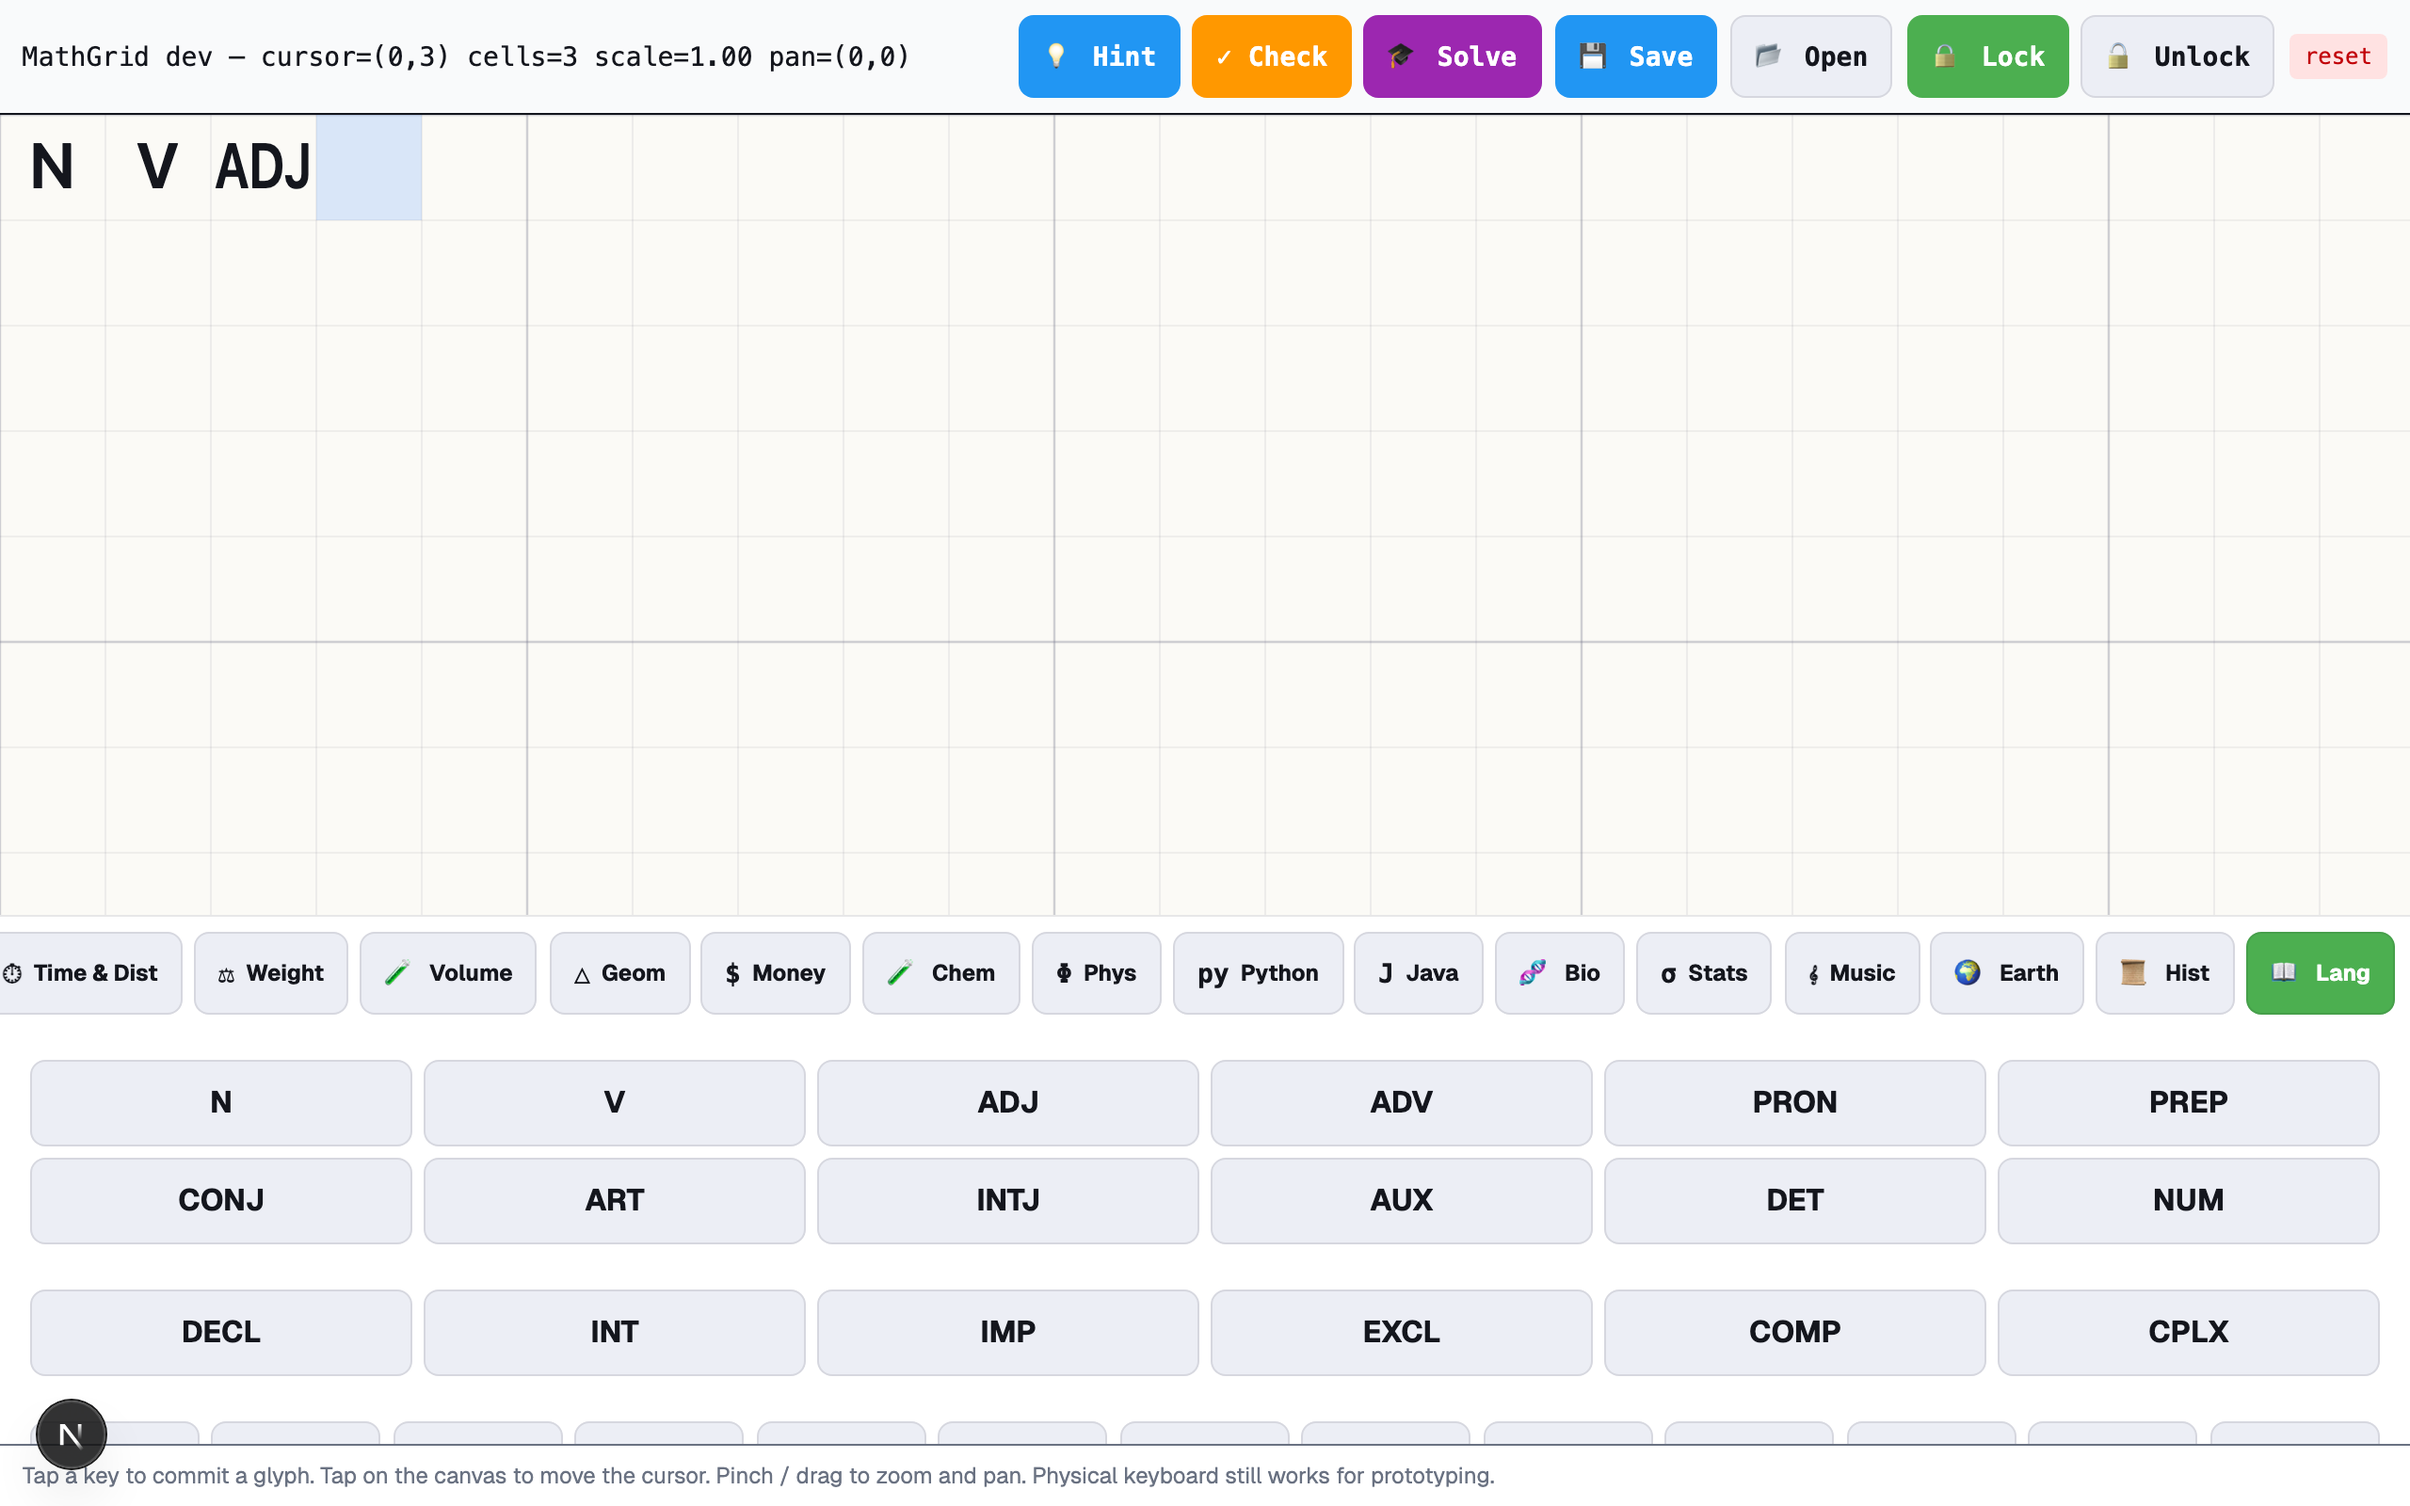
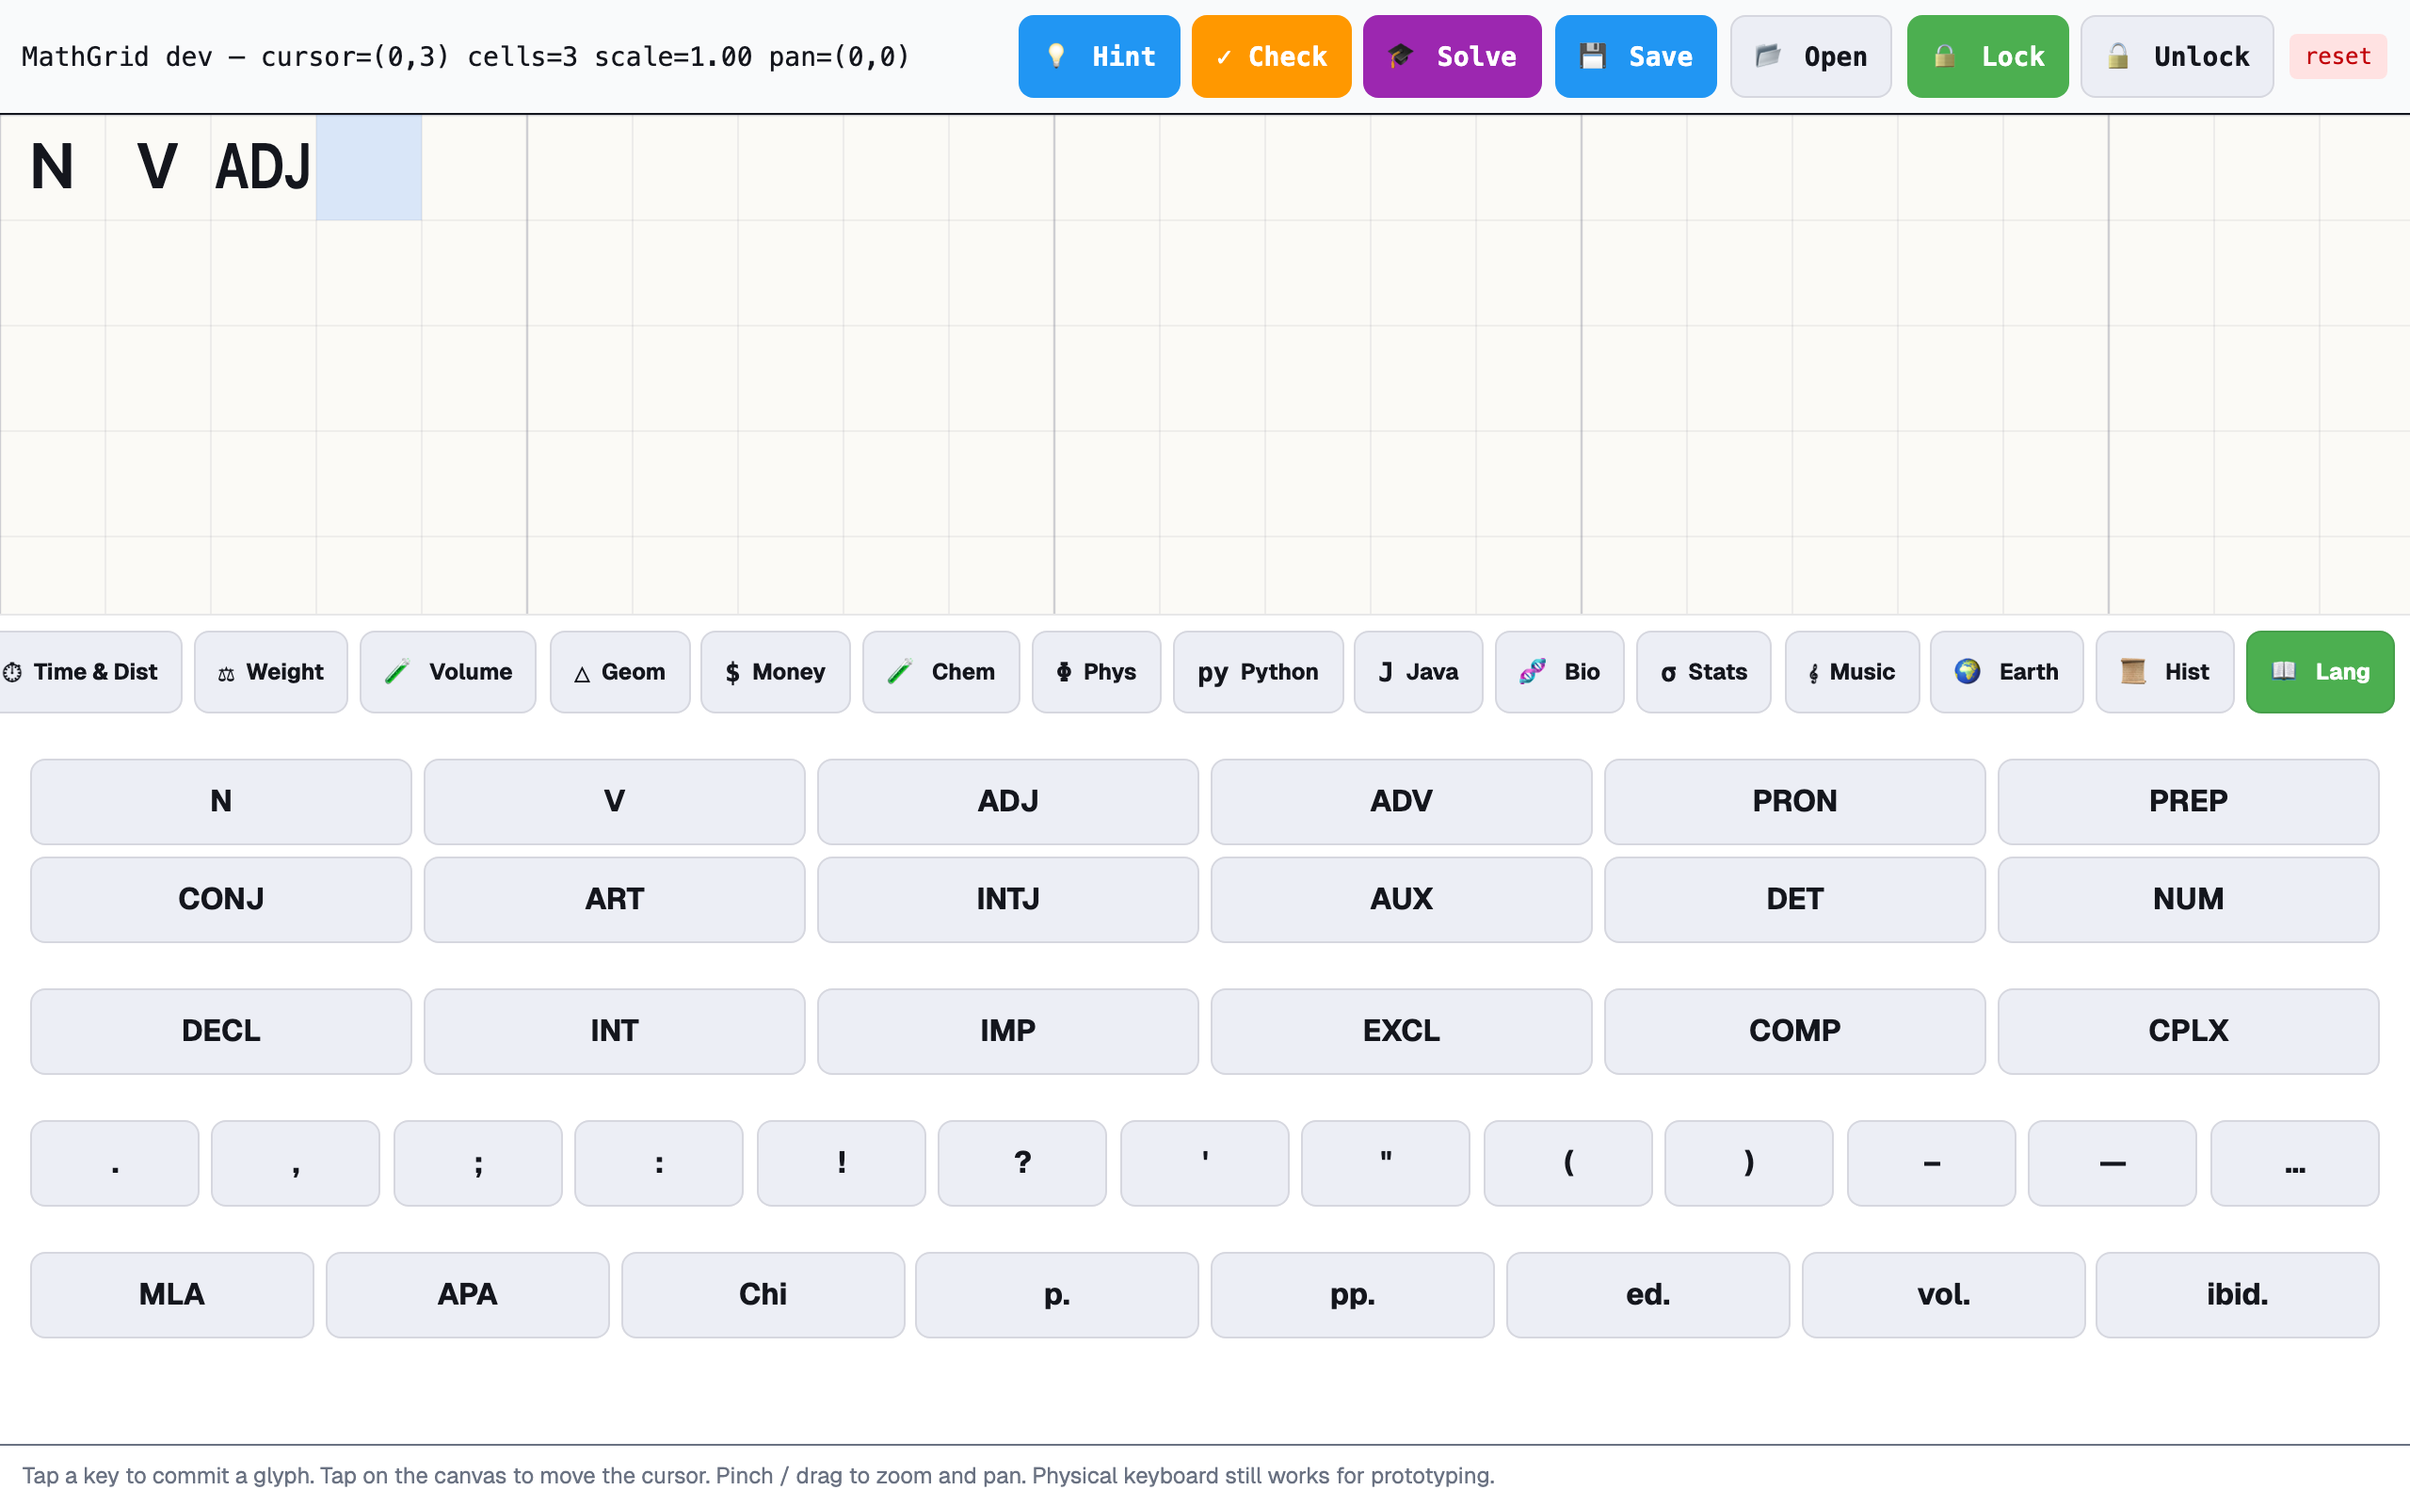
release(0.10.0): reliability sprint — TTS / translation / PDF / math / scripts
13 reported bugs fixed across TTS, translation, PDF reader, math
keyboard, build pipeline, and tutor language routing. 26/26 live-deploy
claims verified by scripts/claims-verify.mjs. 28 new test cases.

CHANGELOG.md captures the full set; key user-visible wins:

- TTS: ctx.state guard before BufferSource.start (ends the silent
  "succeeded" lie when ctx is suspended); rate clamp 0.5-2.0; Romanian
  routes to Azure ro-RO-AlinaNeural.
- Math tutor: outputLanguage drives reply lang, not the UI lang —
  asymmetric pairs (input=en, output=ro) get the localized hint.
- Translation: no English-fallback leak into non-English target
  dicts (was producing "Want più свободы" on RU→IT). LANG_NAMES
  extended for 17 more locales.
- PDF Reader: clinical-PDF support (disableNormalization +
  includeMarkedContent: false) — fixes Vineland-3 / Connors / BASC
  reads that crashed Safari with "undefined is not a function" in
  pdfjs 5.x marked-content walk. Per-phase error reporting added.
- PdfReaderPanel: runInlineOcr now returns the OCR text so callers
  (speakAll) can chain into TTS without waiting for setState flush.
- Build: switched `next build` to --webpack (Turbopack was silently
  skipping Serwist's webpack plugin — public/sw.js never regenerated).
- Service Worker auto-eviction killswitch in app/layout.tsx self-heals
  on next visit when SW version mismatches.

Math keyboard screenshots regenerated to reflect Phase 1 sizing
[…]

diff --git a/CHANGELOG.md b/CHANGELOG.md
@@ -1,5 +1,152 @@
 # PrismAAC Changelog
 
+## [0.10.0] - 2026-05-08 — Reliability sprint: TTS / translation / PDF / marketplace / tutor language
+
+Single-day reliability run resolving **13 reported bugs** (full audit at
+[`docs/BUGS-2026-05-08.md`](docs/BUGS-2026-05-08.md)). 26/26 live-deploy
+claims verified by `scripts/claims-verify.mjs`. **28 new test cases.**
+
+### Build pipeline
+
+- **Webpack production build.** `next build` defaulted to Turbopack on
+  Next 16; Turbopack silently skips Serwist's webpack plugin so
+  `public/sw.js` was never regenerated. Switched `build` script to
+  `next build --webpack`. Added `node:*` scheme handling for Pyodide,
+  `pyodide` to `serverExternalPackages`, home page `force-dynamic`,
+  dynamic-import wrapping of MathTutorTool.
+- **Service Worker auto-eviction killswitch.** Inline `<script>` in
+  `app/layout.tsx` runs FIRST on every page load. Versioned
+  localStorage marker; on mismatch unregisters every SW, deletes
+  every Cache Storage entry, reloads. End-user self-heals on next
+  visit — no Develop-menu intervention.
+
+### TTS
+
+- **`ctx.state === 'running'` guard** before `BufferSource.start()`.
+  Web Audio queues silently into a suspended ctx — `[TTS] Portal TTS
+  succeeded` was lying. Falls through to Web Speech tier when ctx
+  isn't ready.
+- **Rate clamp `[0.5, 2.0]` pass-through** (no SSML scale conversion).
+  Inworld TTS-2 ignores `rate=` so earlier conversion experiments
+  were chasing a non-bug. Romanian routes to Azure
+  `ro-RO-AlinaNeural`.
+- Verified end-to-end via `scripts/tts-live-diag-webkit.mjs` and
+  `tts-live-diag-multilang.mjs`: state=running, gain=1, source.start
+  fires, fallback to Web Speech when portal aborts. Rate=1.00
+  across en / ro / es / fr.
+
+### AI tutor (math)
+
+- **`outputLanguage` (not UI `language`)** drives tutor reply
+  language. AAC users with asymmetric pairs (input=en, output=ro)
+  now get the localized hint they expect.
+- **`Respond in {LangName}. Use natural {LangName} phrasing.`**
+  appended to user prompt tail — current models weight tail-position
+  directives more than ones buried in a long system list.
+- **Synalux `prism-aac/chat` route now merges client system message**
+  with `AAC_SYSTEM` instead of discarding it (synalux-private
+  `b2d70b0c`). Earlier route hardcoded `system: AAC_SYSTEM` and
+  filtered out `role:'system'` from every backend caller —
+  client-supplied "respond in Romanian" never reached the model.
+
+### Translation
+
+- **No English fallback leak into non-English target dicts.**
+  `getPhraseText('cw-want', 'it', 'Want')` returned the English
+  fallback when IT had no entry; the dict registered that as the
+  IT translation. May 2026 RU→IT bug: "хочу больше свободы" →
+  "Want più свободы". Fixed by skipping pairs where target
+  `getPhraseText` output equals the English fallback.
+- **`LANG_NAMES` + `SCRIPT_FOR_LANG` extended** with it / nl / pl /
+  tr / sv / no / da / fi / cs / el / hu / he / hi / vi / th / id /
+  tl. The AI translator sees "translate to Italian" instead of
+  "translate to it".
+
+### PDF Reader
+
+- **Clinical-PDF support.** Pass `disableNormalization: true` +
+  `includeMarkedContent: false` to `getTextContent()`. pdfjs 5.x
+  default normalization walk trips `for…of` over an undefined
+  collection on tagged-PDF marked content (Vineland-3, Connors,
+  BASC) — surfaces in Safari as "undefined is not a function (near
+  '…t of e…')" on every page.
+- **Per-phase error reporting** — `[Page N could not be read at
+  <phase>: <msg> @ <stack-frame>]` so future regressions are
+  diagnosable instead of opaque.
+
+### Math keyboard
+
+- **Phase 1**: Geom 12→40, Adv-Math 16→32, Misc-Math 16→33; chip
+  min-height 44→56 px, text-xl→text-2xl, panel clamp 340→420 px.
+- **Phase 2** (+231 keys): Adv-Math trig row + lim/dx/dy/f(x)/g(x)
+  + subscripts ₀-₉ ₙ ᵢ; Geom `~` + ³ + l/w/h/s; Physics
+  equation-variables + composite SI units + g/c; Chemistry
+  subscripts ₅-₉ + g/mol + mol/L + %; Bio case-toggle + ²/³/^n +
+  codon glyphs; Stats ME/z*/t* + mirrored hypothesis ops + Cov(/
+  corr(/Pr(; Python built-ins + `#` + indent + newline; Java
+  ++/-- and compound assigns + System.out.println / length / equals
+  / toString / Math. + `@`; Earth scientific-notation helper +
+  superscript digits + yr/kyr/Myr; Lang Arts SUBJ/PRED/OBJ/DO/IO +
+  case-toggle + Q:/A:; History events 1492-1929 + missing
+  centuries 6th-9th / 11th-14th / 16th + Δ/≈/~.
+- **Cross-cutting decoration row** (² ³ ₂ ₃ ₄ Δ ≈) on Main +
+  Adv-Math + Chemistry + Physics + Earth Science.
+
+### Marketplace + UI
+
+- **Single-row toolbar with horizontal overflow scroll.** Earlier
+  `flex-wrap` revision broke the strip onto a second row when
+  marketplace apps were installed, doubling toolbar height and
+  pushing every panel below DOWN. Toolbar height now invariant to
+  installed-app count (verified 52 px with 20 installed apps).
+- **`openCategories` UP-navigation.** From `category-detail` and
+  `ordering` flows now goes one level UP to the categories list.
+  Previously closed everything → read as "folder icon does
+  nothing".
+
+### HTTPS hygiene
+
+- **Ollama probe + call gated on HTTPS.** Browsers block
+  http://localhost:11434 from HTTPS pages as mixed content; the
+  catch swallowed the error but the warning still spammed user
+  consoles. Short-circuits to "unavailable" before fetch.
+
+### Workflow library
+
+12 per-subject step-by-step workflow markdowns + 12 grade-leveled
+classroom workflows + 72 Playwright e2e tests + per-subject
+keyboard gap report. **Index at
+[`docs/WORKFLOWS.md`](docs/WORKFLOWS.md).**
+
+### Testing
+
+- 28 new test cases across 6 files. Suite total **2315 passed / 34
+  skipped / 0 failed** (was 2298 at start of cycle).
+- `scripts/claims-verify.mjs` — Playwright + chunk-grep audit
+  exercising every claim from `docs/BUGS-2026-05-08.md` against the
+  live deploy. **26/26 pass.**
+- `scripts/viewport-overflow-audit.mjs` — body / section overflow
+  at iPhone-6.5 / iPad-7 / iPad-13 / desktop-md. **Zero overflow.**
+
+### Discipline (skill / process)
+
+- `~/.agent/skills/tts-live-diagnostic-mandatory/` extended to a
+  cross-repo trace discipline with a **10-item Definition of Done**.
+  Cross-repo bugs verified at BOTH ends; verification regex must
+  match a known-positive (local source) before being trusted on
+  minified chunks; "done" is the user-confirmed terminal state.
+- Skill auto-syncs to Prism MCP DB on SessionStart / SessionEnd and
+  on the "update skills" prompt phrase.
+- Mirror skill copy at `synalux-private/skills/cross-repo-trace-
+  discipline/`.
+
+### Outstanding
+
+- `#10 hint-close` — code-side correct in fresh headless WebKit
+  state. Awaiting user retest after killswitch eviction.
+
+---
+
 ## [0.9.0] - 2026-05-07 — Full high-school curriculum + locale-aware history (Phases 6 → 8)
 
 The math module is now a full high-school program: **19 keyboard tabs**
